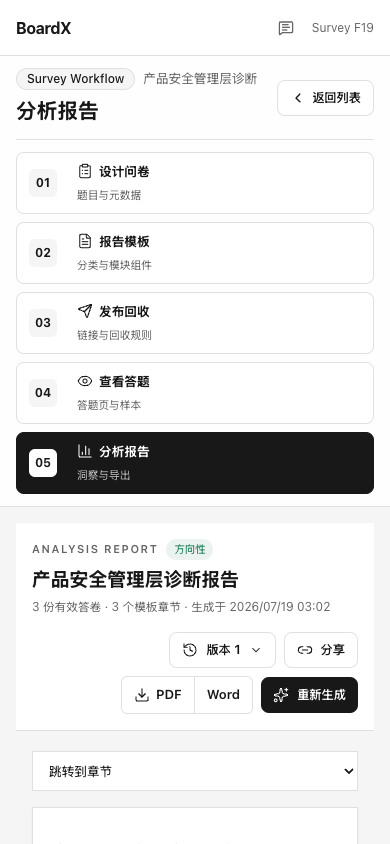
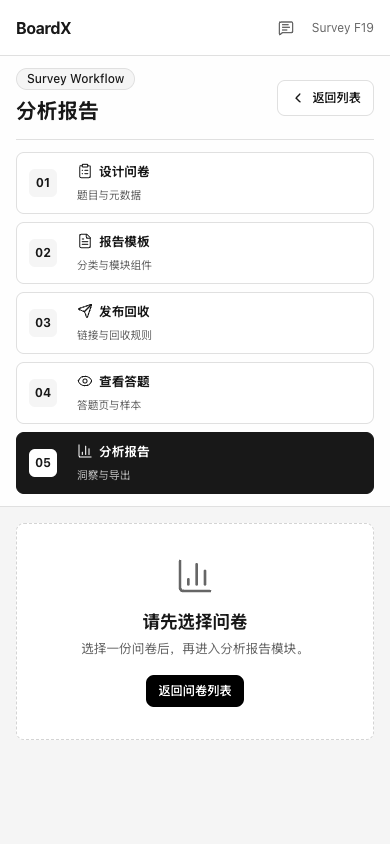
feat(survey): simplify report reading workspace

diff --git a/apps/web/components/survey/survey-professional-report-workbench.tsx b/apps/web/components/survey/survey-professional-report-workbench.tsx
@@ -5,12 +5,14 @@ import { Download, Link2, Sparkles } from "lucide-react";
 import { Button } from "@/components/ui/button";
 import { ProfessionalReportDocument } from "./professional-report-document";
 import { SurveyReportVersionHistory } from "./survey-report-version-history";
-import { reportOutlineItems } from "@/lib/survey-report-reading";
 import type { SurveyReportGenerationStatus } from "@/lib/survey-report-generation";
-import type { PublicTemplateDrivenSurveyReport } from "@/lib/survey-template-report";
+import {
+  isTemplateDrivenSurveyReport,
+  type SurveyReportDocument,
+} from "@/lib/survey-report-document";
 
 interface SurveyProfessionalReportWorkbenchProps {
-  report: PublicTemplateDrivenSurveyReport;
+  report: SurveyReportDocument;
   generation?: SurveyReportGenerationStatus;
   generating: boolean;
   error: string;
@@ -45,7 +47,10 @@ export function SurveyProfessionalReportWorkbench({
   onExportWord,
 }: SurveyProfessionalReportWorkbenchProps) {
   const [shareStatus, setShareStatus] = useState("");
-  const outline = reportOutlineItems(report);
+  const responseCount = isTemplateDrivenSurveyReport(report)
+    ? report.sample.responseCount
+    : report.methodology.sampleSize;
+  const chapterCount = report.chapters.length;
 
   async function shareReport() {
     try {
@@ -80,9 +85,8 @@ export function SurveyProfessionalReportWorkbench({
               {report.title}
             </h2>
             <p className="mt-1 text-12 text-muted-foreground">
-              {report.sample.responseCount} 份有效答卷 · {
-                outline.length
-              } 个模板章节 · 生成于 {formatGeneratedAt(report.generatedAt)}
+              {responseCount} 份有效答卷 · {chapterCount} 个模板章节 · 生成于{" "}
+              {formatGeneratedAt(report.generatedAt)}
             </p>
           </div>
 
@@ -130,7 +134,7 @@ export function SurveyProfessionalReportWorkbench({
               size="sm"
               disabled={generating}
               onClick={onGenerateReport}
-              className="h-9 gap-2 bg-foreground px-3 text-background hover:bg-foreground/90"
+              className="h-9 gap-2 bg-foreground px-3 text-background transition-colors duration-200 hover:bg-foreground/90"
             >
               <Sparkles className="h-4 w-4" strokeWidth={1.6} />
               {generating ? "生成中" : "重新生成"}
@@ -153,76 +157,14 @@ export function SurveyProfessionalReportWorkbench({
         </p>
       ) : null}
 
-      <div className="mx-auto grid max-w-6xl gap-4 px-4 py-5 xl:grid-cols-[14rem_minmax(0,1fr)] xl:items-start xl:px-0">
-        <div className="xl:hidden">
-          <label htmlFor="report-chapter-select" className="sr-only">
-            选择报告章节
-          </label>
-          <select
-            id="report-chapter-select"
-            className="h-10 w-full border border-border bg-background px-3 text-13"
-            defaultValue=""
-            onChange={(event) => {
-              if (event.target.value) {
-                document.getElementById(
-                  `report-chapter-${event.target.value}`
-                )?.scrollIntoView({ behavior: "smooth", block: "start" });
-              }
-            }}
-          >
-            <option value="" disabled>跳转到章节</option>
-            {outline.map((item, index) => (
-              <option key={item.id} value={item.id}>
-                {String(index + 1).padStart(2, "0")} {item.label}
-              </option>
-            ))}
-          </select>
-        </div>
-
-        <nav
-          aria-label="报告目录"
-          data-testid="professional-report-outline"
-          className="sticky top-4 hidden border border-border bg-background xl:block"
-        >
-          <div className="border-b border-border px-4 py-3">
-            <p className="text-13 font-semibold">报告目录</p>
-            <p className="mt-1 text-11 text-muted-foreground">
-              按已保存模板顺序
-            </p>
-          </div>
-          <ol>
-            {outline.map((item, index) => (
-              <li key={item.id} className="border-b border-border last:border-b-0">
-                <a
-                  href={`#report-chapter-${item.id}`}
-                  data-testid={`report-outline-${item.id}`}
-                  className="grid grid-cols-[28px_minmax(0,1fr)] gap-2 px-4 py-3 transition-colors hover:bg-secondary"
-                >
-                  <span className="text-11 font-semibold text-muted-foreground">
-                    {String(index + 1).padStart(2, "0")}
-                  </span>
-                  <span>
-                    <span className="block text-13 font-semibold text-foreground">
-                      {item.label}
-                    </span>
-                    <span className="mt-0.5 block text-11 text-muted-foreground">
-                      {item.outputType === "chart"
-                        ? "数据图表"
-                        : item.outputType === "image"
-                          ? "研究视觉"
-                          : "分析结论"}
-                    </span>
-                  </span>
-                </a>
-              </li>
-            ))}
-          </ol>
-        </nav>
-
+      <main
+        data-testid="professional-report-reading-surface"
+        className="mx-auto w-full max-w-5xl px-4 py-5 sm:px-6"
+      >
         <div className="min-w-0 overflow-hidden border border-border bg-background shadow-sm">
           <ProfessionalReportDocument report={report} />
         </div>
-      </div>
+      </main>
     </div>
   );
 }

diff --git a/apps/web/app/(app)/surveys/page.tsx b/apps/web/app/(app)/surveys/page.tsx
@@ -71,7 +71,6 @@ import {
 } from "@/lib/survey-report-generation";
 import type { PlannedReportBlock } from "@/lib/survey-report-planner";
 import {
-  isTemplateDrivenSurveyReport,
   type SurveyReportDocument,
 } from "@/lib/survey-report-document";
 import { isExactReportVersionResponse } from "@/lib/survey-report-version-navigation";
@@ -2933,10 +2932,7 @@ function WorkspaceReportWorkbench({
     setExportStatus("Word 专业报告已开始下载。");
   }
 
-  if (
-    professionalReport
-    && isTemplateDrivenSurveyReport(professionalReport)
-  ) {
+  if (professionalReport) {
     return (
       <SurveyProfessionalReportWorkbench
         report={professionalReport}
@@ -4366,21 +4362,6 @@ export default function SurveysPage() {
     professionalReportRequestStateRef.current = next;
     setProfessionalReportRequestStateBySurveyId(next);
   }
-
-  useEffect(() => {
-    if (!currentSurveyId || generatedReportsBySurveyId[currentSurveyId]) return;
-    let cancelled = false;
-    void fetch(`/api/surveys/${currentSurveyId}/ai-report`)
-      .then((response) => (response.ok ? response.json() : null))
-      .then((payload) => {
-        if (cancelled || !payload?.report) return;
-        setGeneratedReportsBySurveyId((items) => ({ ...items, [currentSurveyId]: payload.report }));
-      })
-      .catch(() => undefined);
-    return () => {
-      cancelled = true;
-    };
-  }, [currentSurveyId, generatedReportsBySurveyId]);
 
   useEffect(() => {
     if (

diff --git a/apps/web/e2e/survey-p25-019-template-driven-professional-report.spec.ts b/apps/web/e2e/survey-p25-019-template-driven-professional-report.spec.ts
@@ -184,11 +184,14 @@ test("generates one ordered artifact per saved template chapter", async ({
   await page.goto(`/surveys?survey=${survey.id}&step=report`);
   await expect(page.getByTestId("survey-professional-report-workbench"))
     .toBeVisible();
-  await expect(page.getByTestId("professional-report-outline"))
+  await expect(page.getByTestId("professional-report-outline")).toHaveCount(0);
+  await expect(page.getByTestId("professional-report-reading-surface"))
+    .toBeVisible();
+  await expect(page.getByTestId("professional-report-document"))
     .toContainText("管理层决策摘要");
-  await expect(page.getByTestId("professional-report-outline"))
+  await expect(page.getByTestId("professional-report-document"))
     .toContainText("安全信任结构");
-  await expect(page.getByTestId("professional-report-outline"))
+  await expect(page.getByTestId("professional-report-document"))
     .toContainText("购买决策场景");
   await expect(page.getByTestId("professional-report-document"))
     .not.toContainText("执行摘要");
@@ -208,7 +211,7 @@ test("generates one ordered artifact per saved template chapter", async ({
   });
   await page.setViewportSize({ width: 390, height: 844 });
   await page.reload();
-  await expect(page.locator("#report-chapter-select")).toBeVisible();
+  await expect(page.locator("#report-chapter-select")).toHaveCount(0);
   expect(
     await page.evaluate(
       () => document.documentElement.scrollWidth <= window.innerWidth

diff --git a/phases/phase-p25-survey/requirements/21-single-column-report-reading.md b/phases/phase-p25-survey/requirements/21-single-column-report-reading.md
@@ -1,0 +1,27 @@
+# F22 单列分析报告阅读页
+
+## 问题
+
+分析报告仍可能根据历史产物类型进入兼容布局，出现左侧报告目录和右侧报告 AI。
+新模板报告也保留了独立目录栏。两者都会挤压真正的报告内容，与“报告由报告模板章节
+顺序组装后直接阅读”的产品目标冲突。
+
+页面初始化还会请求旧 `/ai-report`，在 Network 中产生 405；该接口不属于模板驱动
+专业报告流程。
+
+## 用户可见行为
+
+- 分析报告只保留居中的最终报告阅读面。
+- 报告内容严格按已保存报告模板的章节、顺序和输出类型组装。
+- 左侧报告目录、移动端章节跳转选择器和右侧报告 AI 均不显示。
+- 顶部继续保留版本、分享、PDF、Word 和重新生成操作。
+- 新旧报告产物都使用相同的单列阅读布局，不再回退到三栏兼容界面。
+- 进入分析报告和重新生成时不请求旧 `/ai-report`。
+
+## 验收
+
+- Playwright 使用含真实答卷和已保存章节模板的问卷进入分析报告。
+- 桌面与移动端都只显示报告文档，不显示目录、章节选择器或报告 AI。
+- 报告章节按模板顺序可见，页面无水平溢出。
+- 网络监听确认页面加载与重新生成均未请求 `/ai-report`。
+

diff --git a/phases/phase-p25-survey/sprints/sprint-22/progress.md b/phases/phase-p25-survey/sprints/sprint-22/progress.md
@@ -1,0 +1,27 @@
+# 进度日志 — Sprint p25/22
+
+## 当前已验证状态(唯一真相)
+- 仓库根目录: `/Users/shenyangjun/boardx/boardx-dev-template/.worktrees/p25-f16-survey-report-fact-base`
+- 标准启动路径: `pnpm -w run dev`
+- 标准验证路径: `pnpm -w run verify:base`
+- 当前最高优先级未完成功能: F22 / 收敛分析报告为单列阅读页
+- 当前 blocker: 无
+
+## 会话记录
+### 2026-07-19
+- 本轮目标: 分析报告只保留根据报告模板组装的中间阅读区域，移除左侧章节与右侧 AI 助手。
+- 已完成:
+  - 历史与模板驱动专业报告统一使用单列阅读工作台。
+  - 移除报告目录、移动端章节选择器和报告 AI 面板。
+  - 删除分析报告入口对旧 `/ai-report` GET 接口的请求。
+  - 保留版本历史、重新生成、分享、PDF 与 Word 操作。
+- 运行过的验证:
+  - `pnpm --filter @repo/web run lint`
+  - `pnpm --filter @repo/web run typecheck`
+  - F19、F21、F22 Playwright 联合回归，3 条全部通过。
+- 已记录证据:
+  - `evidence/report-single-column-desktop.png`
+  - `evidence/report-single-column-mobile.png`
+- 提交记录: 待提交。
+- 已知风险或未解决问题: 无答卷时仍不生成分析结论，这是既有数据完整性约束。
+- 下一步最佳动作: 提交实现后运行 `pnpm harness verify --sprint p25/22 --feature F22`。

diff --git a/phases/phase-p25-survey/sprints/sprint-22/session-handoff.md b/phases/phase-p25-survey/sprints/sprint-22/session-handoff.md
@@ -1,0 +1,24 @@
+# 会话交接 — Sprint p25/22
+
+## 当前已验证
+- F22 实现和定向回归已通过；等待 Harness 写入最终 passing 状态。
+- Web lint、typecheck 通过。
+- F19、F21、F22 Playwright 联合回归 3/3 通过。
+
+## 本轮改动
+- 分析报告统一为居中的单列阅读页，不再显示左侧章节目录与右侧报告 AI。
+- 历史专业报告和模板驱动专业报告共用同一阅读工作台。
+- 删除页面加载时对旧 `/api/surveys/:id/ai-report` 的 GET 请求。
+- 新增桌面、移动端和旧接口禁用的 F22 E2E 证据。
+
+## 仍损坏或未验证
+- 无答卷时报告保持“暂无真实答卷”，不会伪造分析内容。
+- 完整 Harness 门控尚待实现提交后执行。
+
+## 下一步最佳动作
+- 提交当前实现，运行 F22 Harness verify，提交证据和 passing 状态后更新 PR #757。
+
+## 命令
+- 启动:`pnpm -w run dev`
+- 验证:`pnpm harness verify --sprint p25/22 --feature F22`
+- 调试:`E2E_PORT=62648 COLLAB_WS_PORT=62649 pnpm --filter @repo/web exec playwright test e2e/survey-p25-022-single-column-report.spec.ts`

diff --git a/phases/phase-p25-survey/sprints/sprint-22/sprint.md b/phases/phase-p25-survey/sprints/sprint-22/sprint.md
@@ -1,0 +1,18 @@
+# Sprint p25/22 — 收敛分析报告为单列模板阅读页
+
+- **所属阶段**: Phase p25 (survey)
+- **创建于**: 2026-07-18 22:17:15
+
+## 本 sprint 目标
+收敛分析报告为单列模板阅读页
+
+## 领取的 feature(引用自阶段权威清单,按 id)
+- F22 (P1, survey) — 收敛分析报告为单列阅读页
+
+> 实际工作集见同目录 `active-features.json`(脚本派生,只读,勿手改)。
+> 修改功能归属:改阶段 `feature_list.json` 里对应 feature 的 `sprint` 字段,再重跑
+> `pnpm harness new-sprint`(或 refresh)重新派生。
+
+## 完成标准
+- 上述每个 feature 经 `pnpm harness verify --sprint p25/22` 门控为 `passing`。
+- `session-handoff.md` 与 `progress.md` 已更新。

diff --git a/.harness/state/PROGRESS.md b/.harness/state/PROGRESS.md
@@ -29,11 +29,11 @@
 | p22 | Room IA Realignment | not_started | 0 | 0 | 0 | 4 |
 | p23 | developer-portal | in_progress | 0 | 0 | 0 | 10 |
 | p24 | room-board-management | not_started | 0 | 0 | 0 | 0 |
-| p25 | Survey System | in_progress | 0 | 0 | 0 | 17 |
+| p25 | Survey System | in_progress | 0 | 1 | 0 | 17 |
 | p26 | ava-legacy-sync | not_started | 2 | 0 | 0 | 2 |
 | p27 | AI Store | in_progress | 0 | 0 | 0 | 17 |
 | p28 | platform-accounts-gap2 | not_started | 1 | 0 | 0 | 0 |
 | p29 | coord-platform | done | 0 | 0 | 0 | 10 |
 | p30 | devportal-platform | not_started | 24 | 0 | 0 | 0 |
 
-_最近聚合:2026-07-18T21:56:06.435Z_
+_最近聚合:2026-07-18T22:17:17.431Z_

diff --git a/.agents/skills/mod-survey/SKILL.md b/.agents/skills/mod-survey/SKILL.md
@@ -41,6 +41,9 @@ phases/phase-p13-survey
 4. 收尾：有新经验 → 按下方规则回流本文件。
 
 ## 踩坑与经验（append-only，最新在上）
+- 2026-07-19：专业报告阅读页不能按历史产物与模板驱动产物分叉成不同 UI；两者应统一为单列阅读面，
+  章节编辑和 AI 修订只留在报告模板步骤，并用入口 E2E 断言不会再请求旧 `/ai-report`
+  （出处：phase-p25 F22 / issue #648）。
 - 2026-07-19：设计器进入专业报告不能继续跳转旧 `/surveys/:id/results` 页面，也不能在问卷 ID
   不变时只切换 React 工作区状态；前者会调用旧 `/ai-report`，后者可能不会重新触发报告读取。
   应进入规范 `/surveys?survey=:id&step=report` 深链接，并用 E2E 断言模板章节可见、重新生成成功且